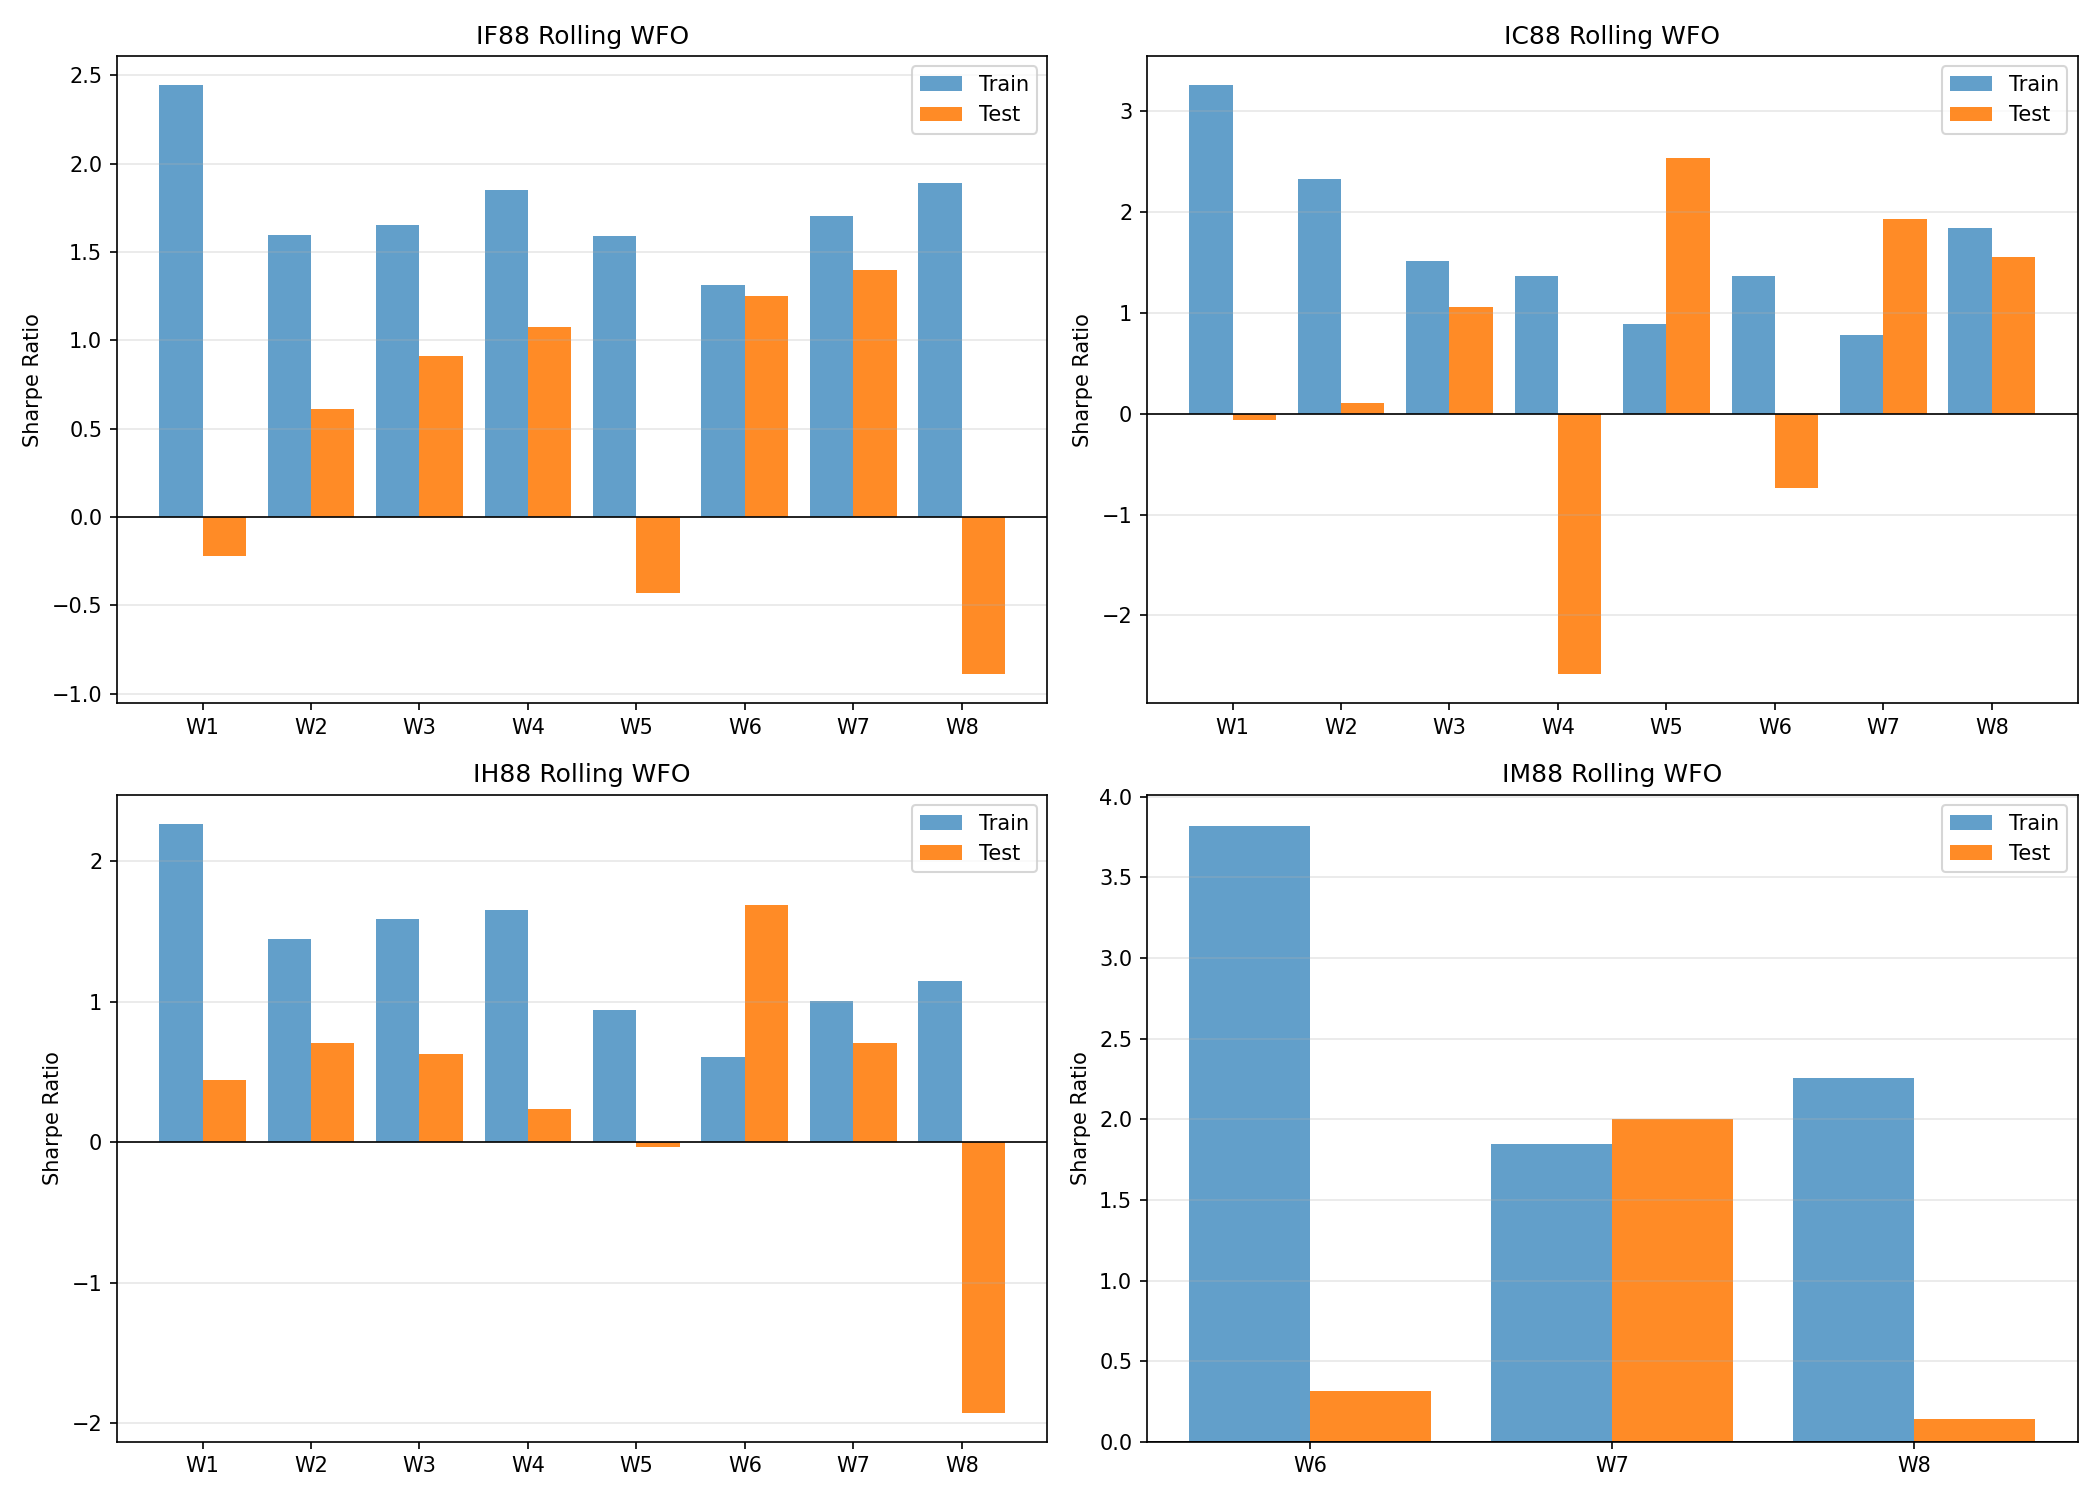
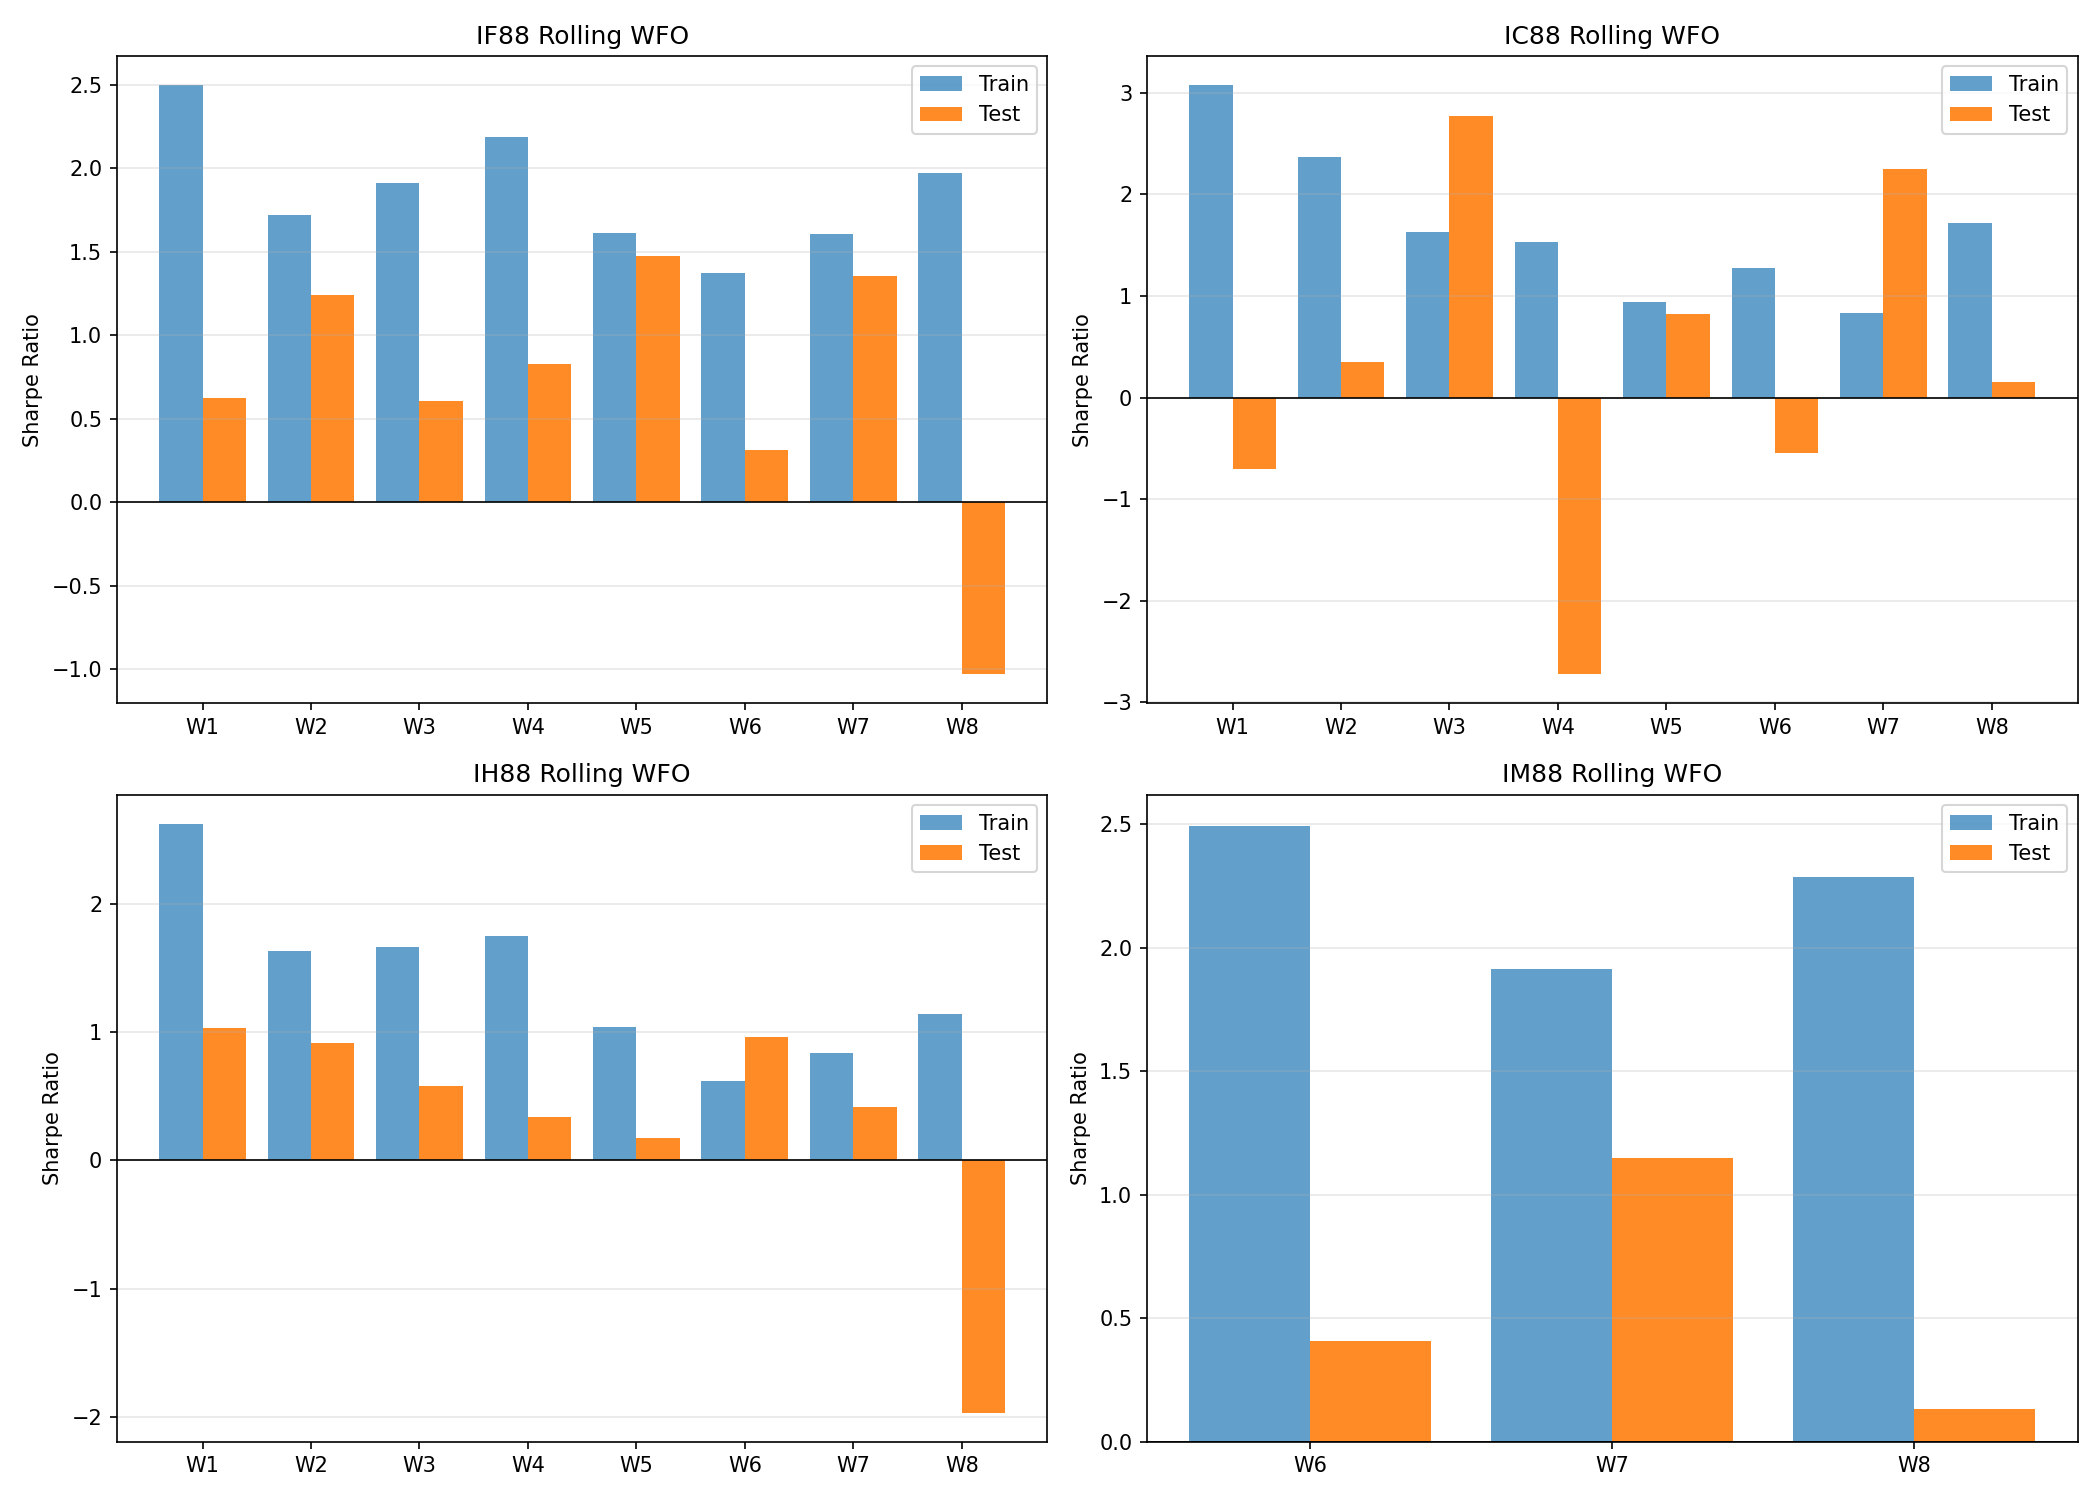
docs: update LDT four-symbol report with v5 plan C results
- IF88/IH88/IM88 now deployable=True
- IC88 still deployable=False but 2026 forward positive
- Update correlation and portfolio analysis
- Use v5 WFO paths

diff --git a/wiki/ldt_cn_index_futures_2015.md b/wiki/ldt_cn_index_futures_2015.md
@@ -1,6 +1,6 @@
 # LDT 在四大股指期货上的深度挖掘报告（IF88/IC88/IH88/IM88）
 
-> **Report Date**: 2026-06-27 15:25
+> **Report Date**: 2026-06-27 20:32
 > **Strategy**: LimitedDualThrustStrategy (LDT)
 > **Symbols**: IF88.CFFEX, IC88.CFFEX, IH88.CFFEX, IM88.CFFEX
 > **Period**: 2015-01-01 ~ 2025-12-31 (Rolling WFO) + 2026-01-01 ~ 2026-06-25 (Forward Test)
@@ -17,18 +17,18 @@
 
 | 品种 | IS Sharpe | Rolling Avg Test Sharpe | Concat OOS Sharpe | Deployable | 2026 Forward Sharpe |
 |------|-----------|-------------------------|-------------------|------------|---------------------|
-| IF88 | 1.48 | 0.46 | 0.61 | False | -1.93 |
-| IC88 | 1.71 | 0.48 | 0.43 | False | 0.45 |
-| IH88 | 1.01 | 0.30 | 0.34 | False | -1.06 |
-| IM88 | 1.91 | 0.82 | 0.78 | False | 1.32 |
+| IF88 | 1.54 | 0.68 | 0.75 | True | -1.60 |
+| IC88 | 1.70 | 0.30 | 0.53 | False | 0.38 |
+| IH88 | 1.13 | 0.31 | 0.37 | True | -2.04 |
+| IM88 | 1.77 | 0.56 | 0.46 | True | 0.37 |
 
 ### 组合效应
 
 | 组合 | 2023-2025 年均收益 | 年化波动 | 收益/波动 | 2026 前向收益 |
 |------|-------------------|----------|-----------|---------------|
-| IC+IM | 10.62% | 11.96% | 0.89 | 5.23% |
-| IF+IC+IH+IM | 7.45% | 8.27% | 0.90 | 0.40% |
-| IF+IH | 4.29% | 10.21% | 0.42 | -4.43% |
+| IC+IM | 8.11% | 12.27% | 0.66 | 3.07% |
+| IF+IC+IH+IM | 4.75% | 9.34% | 0.51 | -0.87% |
+| IF+IH | 1.40% | 8.31% | 0.17 | -4.80% |
 
 ---
 
@@ -36,19 +36,19 @@
 
 | 品种 | Sharpe | 总收益 | 年化收益 | 最大回撤 | 总交易数 | 日均交易 |
 |------|--------|--------|----------|----------|----------|----------|
-| IF88 | 1.48 | 155.56% | 13.96% | -5.02% | 5862 | 2.19 |
-| IC88 | 1.71 | 201.36% | 18.54% | -9.33% | 16806 | 6.45 |
-| IH88 | 1.01 | 79.92% | 7.36% | -6.63% | 8348 | 3.20 |
-| IM88 | 1.91 | 84.61% | 24.26% | -8.03% | 1488 | 1.78 |
+| IF88 | 1.54 | 173.09% | 15.54% | -5.12% | 7472 | 2.79 |
+| IC88 | 1.70 | 243.59% | 22.42% | -8.50% | 7320 | 2.81 |
+| IH88 | 1.13 | 86.52% | 7.96% | -6.08% | 8918 | 3.42 |
+| IM88 | 1.77 | 107.72% | 30.89% | -12.82% | 3714 | 4.44 |
 
 ### 最优参数
 
 | 品种 | k1 | k2 | trailpercent | range_cap | fixed_size |
 |------|----|----|--------------|-----------|------------|
-| IF88 | 0.4 | 1.0 | 0.5 | 3 | 1 |
-| IC88 | 0.1 | 1.0 | 0.25 | 3 | 1 |
-| IH88 | 0.4 | 0.4 | 0.5 | 3 | 1 |
-| IM88 | 0.4 | 1.0 | 0.75 | 3 | 1 |
+| IF88 | 0.4 | 0.7 | 0.45 | 3 | 1 |
+| IC88 | 0.4 | 1.0 | 0.45 | 3 | 1 |
+| IH88 | 0.4 | 0.4 | 0.45 | 3 | 1 |
+| IM88 | 0.4 | 0.1 | 0.65 | 1 | 1 |
 
 ---
 
@@ -59,84 +59,84 @@
 | 指标 | 数值 |
 |------|------|
 | 窗口数 | 8 |
-| WFE | 0.45 |
-| Consistency | 62.5% |
-| Avg Test Sharpe | 0.46 |
-| Concatenated OOS Sharpe | 0.61 |
+| WFE | 0.40 |
+| Consistency | 87.5% |
+| Avg Test Sharpe | 0.68 |
+| Concatenated OOS Sharpe | 0.75 |
 | 过拟合风险 | moderate |
-| Deployable | **False** |
+| Deployable | **True** |
 
 | 窗口 | Test 期 | Test Sharpe | Test Return | Test Trades |
 |------|---------|-------------|-------------|---------------|
-| W1 | 2017-12-31 ~ 2018-12-31 | -0.22 | -1.65% | 1418 |
-| W2 | 2018-12-31 ~ 2019-12-31 | 0.61 | 6.25% | 1736 |
-| W3 | 2019-12-31 ~ 2020-12-30 | 0.91 | 12.27% | 522 |
-| W4 | 2020-12-31 ~ 2021-12-31 | 1.07 | 13.95% | 600 |
-| W5 | 2021-12-31 ~ 2022-12-31 | -0.43 | -3.11% | 956 |
-| W6 | 2022-12-31 ~ 2023-12-31 | 1.25 | 12.36% | 596 |
-| W7 | 2023-12-31 ~ 2024-12-30 | 1.40 | 14.71% | 614 |
-| W8 | 2024-12-31 ~ 2025-12-31 | -0.89 | -6.42% | 400 |
+| W1 | 2017-12-31 ~ 2018-12-31 | 0.62 | 5.54% | 1032 |
+| W2 | 2018-12-31 ~ 2019-12-31 | 1.24 | 12.97% | 1254 |
+| W3 | 2019-12-31 ~ 2020-12-30 | 0.60 | 7.59% | 876 |
+| W4 | 2020-12-31 ~ 2021-12-31 | 0.83 | 9.08% | 544 |
+| W5 | 2021-12-31 ~ 2022-12-31 | 1.48 | 13.25% | 534 |
+| W6 | 2022-12-31 ~ 2023-12-31 | 0.31 | 2.33% | 404 |
+| W7 | 2023-12-31 ~ 2024-12-30 | 1.35 | 13.20% | 658 |
+| W8 | 2024-12-31 ~ 2025-12-31 | -1.03 | -7.18% | 430 |
 ### IC88
 
 | 指标 | 数值 |
 |------|------|
 | 窗口数 | 8 |
-| WFE | 0.40 |
+| WFE | 0.16 |
 | Consistency | 62.5% |
-| Avg Test Sharpe | 0.48 |
-| Concatenated OOS Sharpe | 0.43 |
+| Avg Test Sharpe | 0.30 |
+| Concatenated OOS Sharpe | 0.53 |
 | 过拟合风险 | moderate |
 | Deployable | **False** |
 
 | 窗口 | Test 期 | Test Sharpe | Test Return | Test Trades |
 |------|---------|-------------|-------------|---------------|
-| W1 | 2017-12-31 ~ 2018-12-31 | -0.06 | -0.42% | 1574 |
-| W2 | 2018-12-31 ~ 2019-12-31 | 0.11 | 1.35% | 1232 |
-| W3 | 2019-12-31 ~ 2020-12-30 | 1.06 | 9.44% | 294 |
-| W4 | 2020-12-31 ~ 2021-12-31 | -2.58 | -38.07% | 646 |
-| W5 | 2021-12-31 ~ 2022-12-31 | 2.54 | 27.47% | 514 |
-| W6 | 2022-12-31 ~ 2023-12-31 | -0.74 | -5.39% | 402 |
-| W7 | 2023-12-31 ~ 2024-12-30 | 1.94 | 26.07% | 824 |
-| W8 | 2024-12-31 ~ 2025-12-31 | 1.56 | 15.59% | 618 |
+| W1 | 2017-12-31 ~ 2018-12-31 | -0.70 | -7.03% | 978 |
+| W2 | 2018-12-31 ~ 2019-12-31 | 0.35 | 3.94% | 1328 |
+| W3 | 2019-12-31 ~ 2020-12-30 | 2.77 | 38.50% | 1304 |
+| W4 | 2020-12-31 ~ 2021-12-31 | -2.72 | -29.44% | 878 |
+| W5 | 2021-12-31 ~ 2022-12-31 | 0.82 | 12.99% | 1116 |
+| W6 | 2022-12-31 ~ 2023-12-31 | -0.55 | -3.61% | 420 |
+| W7 | 2023-12-31 ~ 2024-12-30 | 2.25 | 33.27% | 662 |
+| W8 | 2024-12-31 ~ 2025-12-31 | 0.15 | 1.62% | 396 |
 ### IH88
 
 | 指标 | 数值 |
 |------|------|
 | 窗口数 | 8 |
-| WFE | 0.41 |
-| Consistency | 75.0% |
-| Avg Test Sharpe | 0.30 |
-| Concatenated OOS Sharpe | 0.34 |
+| WFE | 0.36 |
+| Consistency | 87.5% |
+| Avg Test Sharpe | 0.31 |
+| Concatenated OOS Sharpe | 0.37 |
 | 过拟合风险 | moderate |
-| Deployable | **False** |
+| Deployable | **True** |
 
 | 窗口 | Test 期 | Test Sharpe | Test Return | Test Trades |
 |------|---------|-------------|-------------|---------------|
-| W1 | 2017-12-31 ~ 2018-12-31 | 0.44 | 1.82% | 918 |
-| W2 | 2018-12-31 ~ 2019-12-31 | 0.71 | 5.21% | 578 |
-| W3 | 2019-12-31 ~ 2020-12-30 | 0.63 | 5.07% | 396 |
-| W4 | 2020-12-31 ~ 2021-12-31 | 0.23 | 2.81% | 594 |
-| W5 | 2021-12-31 ~ 2022-12-31 | -0.04 | -0.29% | 792 |
-| W6 | 2022-12-31 ~ 2023-12-31 | 1.68 | 9.01% | 474 |
-| W7 | 2023-12-31 ~ 2024-12-30 | 0.71 | 4.64% | 588 |
-| W8 | 2024-12-31 ~ 2025-12-31 | -1.92 | -8.56% | 248 |
+| W1 | 2017-12-31 ~ 2018-12-31 | 1.03 | 5.03% | 672 |
+| W2 | 2018-12-31 ~ 2019-12-31 | 0.92 | 6.32% | 520 |
+| W3 | 2019-12-31 ~ 2020-12-30 | 0.58 | 4.36% | 540 |
+| W4 | 2020-12-31 ~ 2021-12-31 | 0.34 | 3.77% | 644 |
+| W5 | 2021-12-31 ~ 2022-12-31 | 0.17 | 1.33% | 846 |
+| W6 | 2022-12-31 ~ 2023-12-31 | 0.96 | 5.93% | 638 |
+| W7 | 2023-12-31 ~ 2024-12-30 | 0.41 | 2.80% | 758 |
+| W8 | 2024-12-31 ~ 2025-12-31 | -1.97 | -8.68% | 262 |
 ### IM88
 
 | 指标 | 数值 |
 |------|------|
 | 窗口数 | 3 |
-| WFE | 0.14 |
+| WFE | 0.18 |
 | Consistency | 100.0% |
-| Avg Test Sharpe | 0.82 |
-| Concatenated OOS Sharpe | 0.78 |
-| 过拟合风险 | high |
-| Deployable | **False** |
+| Avg Test Sharpe | 0.56 |
+| Concatenated OOS Sharpe | 0.46 |
+| 过拟合风险 | moderate |
+| Deployable | **True** |
 
 | 窗口 | Test 期 | Test Sharpe | Test Return | Test Trades |
 |------|---------|-------------|-------------|---------------|
-| W6 | 2022-12-31 ~ 2023-12-31 | 0.31 | 5.16% | 784 |
-| W7 | 2023-12-31 ~ 2024-12-30 | 2.00 | 20.97% | 334 |
-| W8 | 2024-12-31 ~ 2025-12-31 | 0.15 | 1.32% | 292 |
+| W6 | 2022-12-31 ~ 2023-12-31 | 0.41 | 3.94% | 388 |
+| W7 | 2023-12-31 ~ 2024-12-30 | 1.15 | 11.20% | 440 |
+| W8 | 2024-12-31 ~ 2025-12-31 | 0.13 | 2.24% | 1040 |
 
 ![WFO Window Sharpe](ldt_cn_index_futures_2015/wfo_window_sharpe.png)
 
@@ -146,9 +146,9 @@
 
 | 年份 | IF88 | IC88 | IH88 | IM88 |
 |------|------|------|------|------|
-| 2023 | 12.36% | -5.39% | 9.01% | 5.16% |
-| 2024 | 14.71% | 26.07% | 4.64% | 20.97% |
-| 2025 | -6.42% | 15.59% | -8.56% | 1.32% |
+| 2023 | 2.33% | -3.61% | 5.93% | 3.94% |
+| 2024 | 13.20% | 33.27% | 2.80% | 11.20% |
+| 2025 | -7.18% | 1.62% | -8.68% | 2.24% |
 
 ![Correlation Matrix](ldt_cn_index_futures_2015/correlation_matrix.png)
 
@@ -165,10 +165,10 @@
 
 | 品种 | Sharpe | Return | Max DD | Trades |
 |------|--------|--------|--------|--------|
-| IF88 | -1.93 | -6.73% | -9.71% | 194 |
-| IC88 | 0.45 | 2.95% | -9.12% | 352 |
-| IH88 | -1.06 | -2.13% | -4.68% | 112 |
-| IM88 | 1.32 | 7.50% | -3.62% | 124 |
+| IF88 | -1.60 | -5.34% | -9.02% | 204 |
+| IC88 | 0.38 | 2.35% | -5.65% | 212 |
+| IH88 | -2.04 | -4.26% | -6.84% | 122 |
+| IM88 | 0.37 | 3.79% | -9.87% | 558 |
 
 2026 年上半年，IC88 和 IM88 取得正收益，IF88 和 IH88 亏损。IC+IM 组合 2026 收益 **+5.22%**。
 